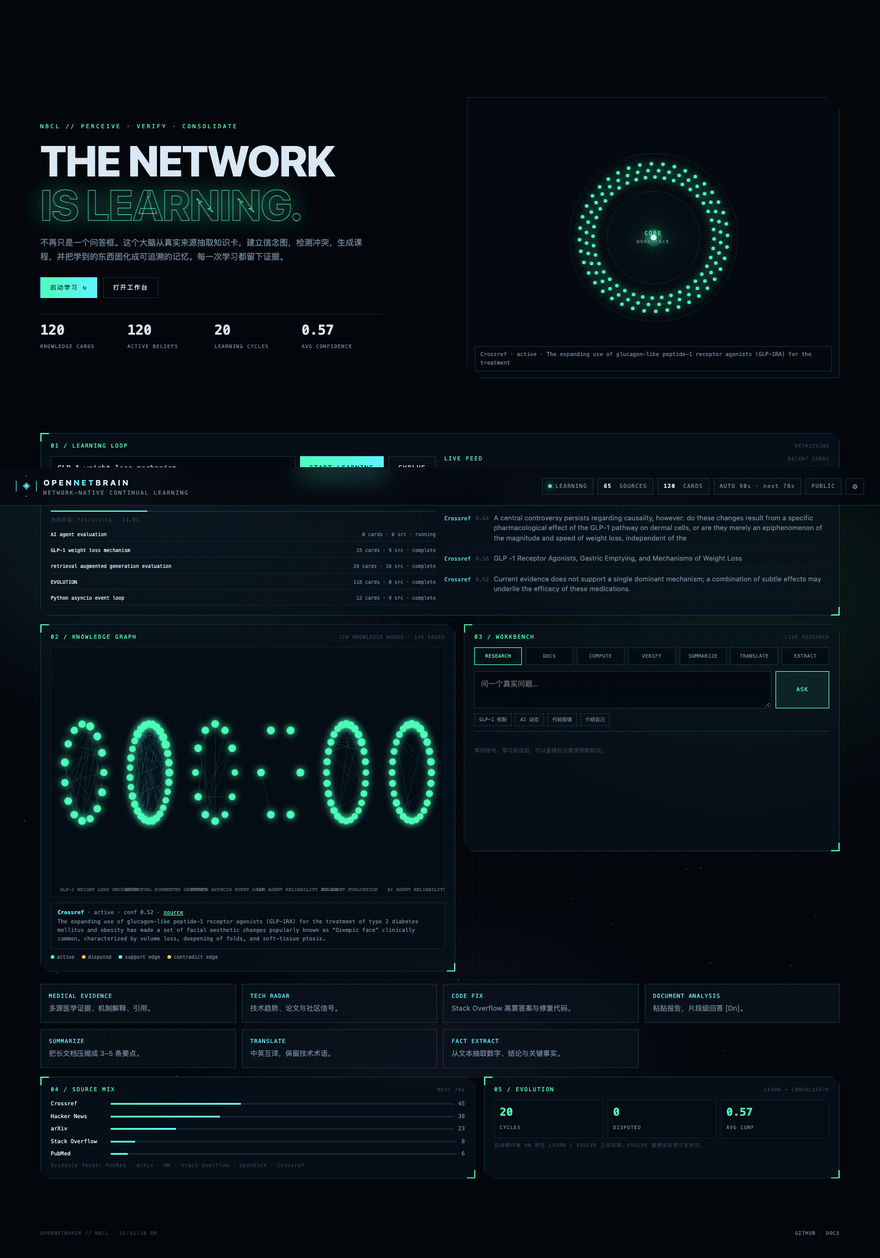
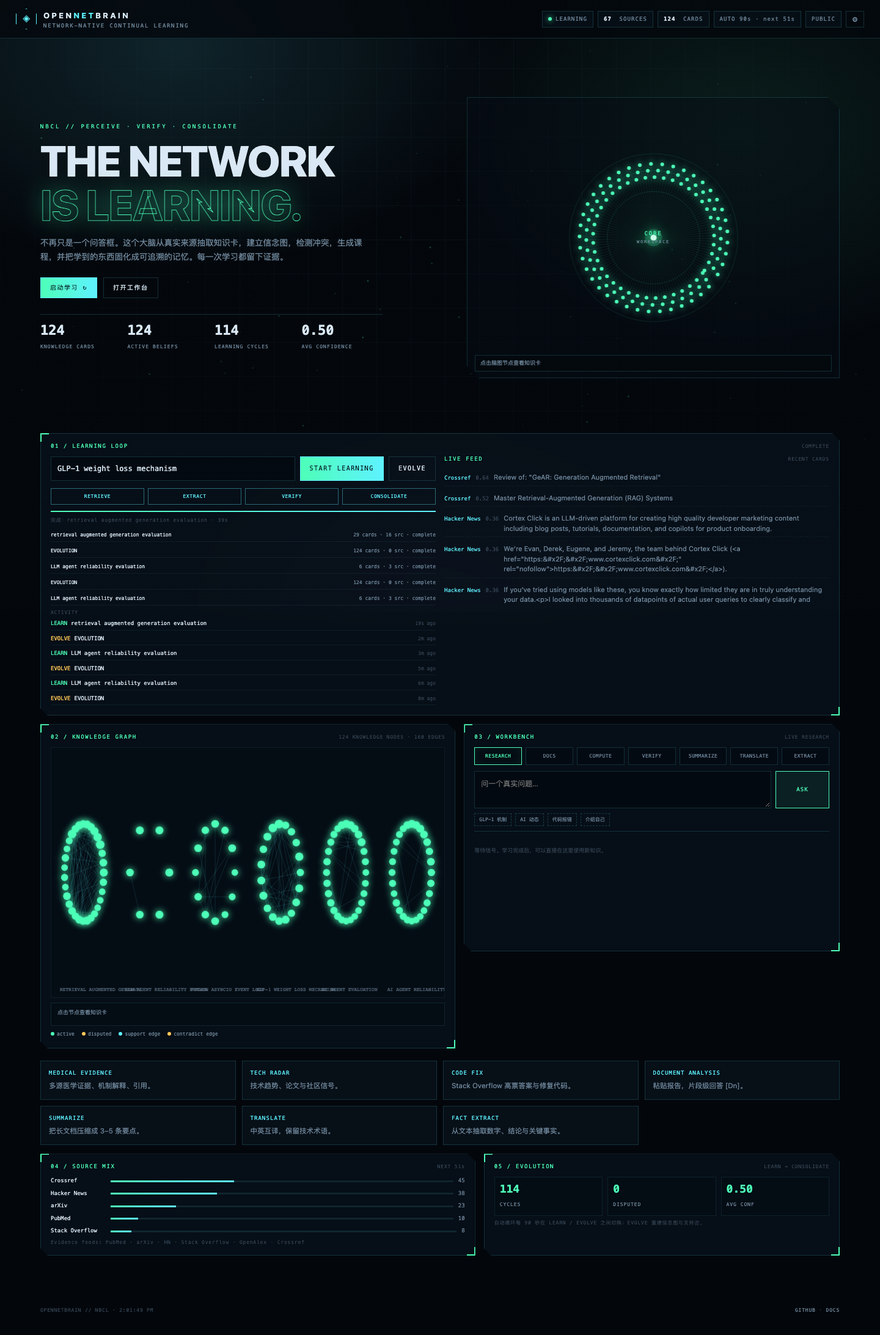
feat: clickable hero/graph card modal, auto activity log, v10

diff --git a/brain.html b/brain.html
@@ -58,6 +58,11 @@ textarea,input{background:rgba(3,9,15,.85);border:1px solid var(--line);color:va
 .bottom{display:grid;grid-template-columns:1.1fr .9fr;gap:14px;margin-top:14px}.node{display:flex;justify-content:space-between;gap:8px;font:8px/1.5 var(--mono);border-bottom:1px solid rgba(94,242,255,.08);padding:4px 0;color:var(--muted)}.node b{color:var(--text);font-weight:500}
 pre{background:rgba(3,9,15,.9);border:1px solid var(--line);padding:9px;color:var(--cyan);font:8.5px/1.7 var(--mono);white-space:pre-wrap;word-break:normal;overflow-wrap:break-word;margin:0 0 7px}.copy{width:100%;border:1px solid var(--green);background:rgba(77,255,184,.08);color:var(--green);font:8px/1 var(--mono);letter-spacing:.12em;padding:7px;cursor:pointer}
 .modal{position:fixed;inset:0;z-index:300;display:none;place-items:center;background:rgba(2,5,9,.85);backdrop-filter:blur(10px)}.modal.open{display:grid}.modal-card{width:min(420px,92vw);background:#08111b;border:1px solid var(--green);padding:20px}.modal-card h3{font:10px/1 var(--mono);letter-spacing:.2em;color:var(--green);margin:0 0 8px}.modal-card p{color:var(--muted);font-size:11px;margin:0 0 12px}.modal-actions{display:flex;gap:7px;margin-top:10px}.modal-actions button{flex:1;padding:8px;font:8px/1 var(--mono);letter-spacing:.12em;cursor:pointer;border:1px solid var(--green);background:var(--green);color:#021016}.modal-actions .ghost{background:transparent;color:var(--text);border-color:var(--line)}
+.activity{display:flex;flex-direction:column;gap:4px;max-height:150px;overflow:auto;margin-top:4px}
+.act{display:flex;gap:6px;align-items:baseline;border-bottom:1px solid rgba(94,242,255,.07);padding:3px 0;font:9px/1.5 var(--mono);color:var(--muted)}
+.act b{font-weight:500;color:var(--green)}.act b.evo{color:var(--amber)}.act span{flex:1;color:var(--text);overflow:hidden;text-overflow:ellipsis;white-space:nowrap}.act em{font-style:normal;color:var(--dim);font-size:8px}
+.card-modal{position:fixed;inset:0;z-index:320;display:none;place-items:center;background:rgba(2,5,9,.82);backdrop-filter:blur(8px);padding:20px}.card-modal.open{display:grid}
+.card-box{position:relative;width:min(640px,94vw);max-height:80vh;overflow:auto;background:#08111b;border:1px solid var(--green);padding:20px;box-shadow:0 0 50px rgba(77,255,184,.12)}.card-box h3{font:600 17px/1.5 var(--sans);margin:8px 0 10px;color:var(--text)}.card-box p{color:var(--muted);font-size:12px;margin:0 0 10px}.card-box .meta{display:flex;gap:8px;flex-wrap:wrap;margin-bottom:10px}.card-box a{color:var(--cyan);text-decoration:none;font:9px/1.5 var(--mono)}.card-close{position:absolute;right:10px;top:8px;background:transparent;border:0;color:var(--muted);font-size:20px;cursor:pointer}.card-close:hover{color:var(--green)}
 .graph-detail{margin-top:8px;border:1px solid rgba(94,242,255,.12);padding:8px 10px;font:9px/1.6 var(--mono);color:var(--muted);min-height:38px;background:rgba(3,9,15,.35)}
 .graph-detail b{color:var(--cyan)}.graph-detail a{color:var(--green)}
 .mix{display:flex;flex-direction:column;gap:7px}
@@ -127,6 +132,8 @@ footer{max-width:1360px;margin:0 auto;padding:0 26px 34px;display:flex;justify-c
         <div class="progress"><i id="progress"></i></div>
         <div class="hint" id="learnMsg">输入主题，或直接启动默认主题。学习在真实网络来源上进行。</div>
         <div class="cycles" id="cycles"></div>
+        <div class="hint" style="margin-top:8px">ACTIVITY</div>
+        <div class="activity" id="activity"></div>
       </div>
       <div>
         <div class="head"><span class="tag">LIVE FEED</span><span class="hint">RECENT CARDS</span></div>
@@ -196,6 +203,7 @@ footer{max-width:1360px;margin:0 auto;padding:0 26px 34px;display:flex;justify-c
 
 <footer><div>OPENNETBRAIN // NBCL · <span id="clock">--:--:--</span></div><div><a href="https://github.com/zacrisy/open-net-agent">GITHUB</a> · <a href="https://zacrisy.github.io/open-net-agent/">DOCS</a></div></footer>
 
+<div class="card-modal" id="cardModal"><div class="card-box"><button class="card-close" id="closeCard">×</button><div id="cardBody"></div></div></div>
 <div class="modal" id="settings"><div class="modal-card"><h3>ADMIN LINK</h3><p>可选：管理员 token 用于审计/NLI。公共学习与工作台无需 token。</p><input id="token" placeholder="admin token"><div class="modal-actions"><button id="saveToken">SAVE</button><button id="closeSettings" class="ghost">CANCEL</button></div></div></div>
 
 <script>
@@ -259,6 +267,7 @@ async function refreshBrain() {
     $('learnMsg').textContent = s.learning?.stage === 'complete' ? `完成：${s.learning.topic} · ${s.learning.elapsed}s` : (s.learning?.stage ? `当前阶段：${s.learning.stage} · ${s.learning.elapsed}s` : '等待开始学习。');
     $('feed').innerHTML = (s.feed || []).length ? s.feed.map(c => `<div class="feed-item"><b>${esc(c.source_type)}</b><span>${(c.confidence||0).toFixed(2)}</span><p>${esc(c.claim)}</p></div>`).join('') : '<div class="feed-item"><p>等待学习周期…</p></div>';
     $('cycles').innerHTML = (s.cycles || []).slice(0,5).map(c => `<div class="cycle"><b>${esc(c.topic)}</b><span>${c.cards||0} cards · ${c.sources||0} src · ${c.status}</span></div>`).join('');
+    $('activity').innerHTML = (s.cycles || []).slice(0,8).map(c => { const evo=c.topic==='EVOLUTION'; return `<div class="act"><b class="${evo?'evo':'learn'}">${evo?'EVOLVE':'LEARN'}</b><span>${esc(c.topic)}</span><em>${timeAgo(c.finished||c.started)}</em></div>`; }).join('');
     await loadGraph();
   } catch (e) { $('linkState').textContent = 'OFFLINE'; $('dot').classList.add('off'); }
 }
@@ -283,6 +292,15 @@ async function evolve() {
   setTimeout(() => $('evolve').disabled = false, 2500);
 }
 
+function timeAgo(ts){ if(!ts) return '--'; const s=Math.max(0,Math.round(Date.now()/1000-ts)); if(s<60) return s+'s ago'; if(s<3600) return Math.round(s/60)+'m ago'; return Math.round(s/3600)+'h ago'; }
+function openCard(n){
+  if(!n) return;
+  const link = n.source_url ? `<a href="${esc(n.source_url)}" target="_blank" rel="noopener">OPEN SOURCE ↗</a>` : '';
+  $('cardBody').innerHTML = `<div class="tag">${esc(n.source_type||'KNOWLEDGE CARD')} · ${esc(n.status||'active')} · CONF ${Number(n.confidence||0).toFixed(2)}</div><h3>${esc(n.claim||n.label||'')}</h3><p>TOPIC · ${esc(n.topic||'')}</p><div class="meta">${link}</div><div class="hint">This card is part of the network brain's belief graph.</div>`;
+  $('cardModal').classList.add('open');
+}
+function closeCard(){ $('cardModal').classList.remove('open'); }
+
 function drawGraph() {
   const c = $('graphCanvas'); if (!c) return; const r = c.getBoundingClientRect(); const dpr = devicePixelRatio || 1;
   c.width = r.width * dpr; c.height = r.height * dpr; const x = c.getContext('2d'); x.scale(dpr,dpr);
@@ -303,6 +321,7 @@ function drawGraph() {
       const link = best.source_url ? ` · <a href="${esc(best.source_url)}" target="_blank" rel="noopener">source</a>` : '';
       $('graphDetail').innerHTML = `<b>${esc(best.source_type||'')}</b> · ${esc(best.status)} · conf ${Number(best.confidence||0).toFixed(2)}${link} <br>${esc(best.claim||best.label)}`;
       $('nodeDetail').textContent = `${best.source_type} · ${best.status} · ${best.label}`;
+      openCard(best);
     } else {
       $('graphDetail').textContent = '点击节点查看知识卡';
       $('nodeDetail').textContent = '点击脑图节点查看知识卡';
@@ -315,8 +334,8 @@ function drawBrain() {
   const W=r.width,H=r.height; let t=performance.now()/1000; x.clearRect(0,0,W,H);
   const cx=W*.5, cy=H*.5, R=Math.min(W,H)*.3;
   x.strokeStyle='rgba(77,255,184,.12)'; [0.55,.8,1].forEach(k=>{x.beginPath();x.arc(cx,cy,R*k,0,7);x.stroke();});
-  const nodes=state.graph.nodes||[]; const n=Math.max(nodes.length,3);
-  for(let i=0;i<n;i++){const a=t*.15+i*Math.PI*2/n, rr=R*(.72+(i%3)*.08); const px=cx+Math.cos(a)*rr, py=cy+Math.sin(a)*rr; x.beginPath();x.moveTo(cx,cy);x.lineTo(px,py);x.strokeStyle='rgba(77,255,184,.08)';x.stroke(); x.beginPath();x.arc(px,py,3,0,7);x.fillStyle=nodes[i]?.status==='disputed'?'#ffc857':'#4dffb8';x.shadowColor=x.fillStyle;x.shadowBlur=12;x.fill();x.shadowBlur=0;}
+  const nodes=state.graph.nodes||[]; const n=Math.max(nodes.length,3); window.__brainPos={}; window.__brainNodes=nodes;
+  for(let i=0;i<n;i++){const a=t*.15+i*Math.PI*2/n, rr=R*(.72+(i%3)*.08); const px=cx+Math.cos(a)*rr, py=cy+Math.sin(a)*rr; if(nodes[i]) window.__brainPos[nodes[i].id]={x:px,y:py}; x.beginPath();x.moveTo(cx,cy);x.lineTo(px,py);x.strokeStyle='rgba(77,255,184,.08)';x.stroke(); x.beginPath();x.arc(px,py,3,0,7);x.fillStyle=nodes[i]?.status==='disputed'?'#ffc857':'#4dffb8';x.shadowColor=x.fillStyle;x.shadowBlur=12;x.fill();x.shadowBlur=0;}
   x.beginPath();x.arc(cx,cy,14,0,7);x.fillStyle='rgba(77,255,184,.2)';x.fill();x.beginPath();x.arc(cx,cy,5,0,7);x.fillStyle='#d9fff4';x.shadowColor='#4dffb8';x.shadowBlur=22;x.fill();x.shadowBlur=0;
   requestAnimationFrame(drawBrain);
 }
@@ -362,7 +381,9 @@ async function ask(){
 }
 async function vote(id,v){ if(!id)return; const r=await api('/feedback',{method:'POST',body:JSON.stringify({id,vote:v})}); if(r.ok){$('fbMsg').textContent='SAVED ✓';} }
 
-$('train').onclick=startLearn; $('evolve').onclick=evolve; $('heroTrain').onclick=()=>{document.querySelector('.panel').scrollIntoView({behavior:'smooth'});startLearn();};
+$('train').onclick=startLearn; $('evolve').onclick=evolve;
+$('closeCard').onclick=closeCard; $('cardModal').onclick=e=>{if(e.target.id==='cardModal')closeCard();}; document.addEventListener('keydown',e=>{if(e.key==='Escape')closeCard();});
+$('brainCanvas').onclick=ev=>{const c=$('brainCanvas'),r=c.getBoundingClientRect(),mx=ev.clientX-r.left,my=ev.clientY-r.top;let best=null,bd=1e9;(window.__brainNodes||[]).forEach(n=>{const p=(window.__brainPos||{})[n.id];if(!p)return;const d=Math.hypot(p.x-mx,p.y-my);if(d<bd){bd=d;best=n;}});if(best&&bd<18){$('nodeDetail').textContent=`${best.source_type} · ${best.status} · ${best.label}`;openCard(best);}}; $('heroTrain').onclick=()=>{document.querySelector('.panel').scrollIntoView({behavior:'smooth'});startLearn();};
 $('ask').onclick=ask;
 document.querySelectorAll('#modes button').forEach(b=>b.onclick=()=>setMode(b.dataset.mode));
 document.querySelectorAll('#samples button').forEach(b=>b.onclick=()=>{setMode('research');$('q').value=b.dataset.q;ask();});

diff --git a/docs/brain.html b/docs/brain.html
@@ -58,6 +58,11 @@ textarea,input{background:rgba(3,9,15,.85);border:1px solid var(--line);color:va
 .bottom{display:grid;grid-template-columns:1.1fr .9fr;gap:14px;margin-top:14px}.node{display:flex;justify-content:space-between;gap:8px;font:8px/1.5 var(--mono);border-bottom:1px solid rgba(94,242,255,.08);padding:4px 0;color:var(--muted)}.node b{color:var(--text);font-weight:500}
 pre{background:rgba(3,9,15,.9);border:1px solid var(--line);padding:9px;color:var(--cyan);font:8.5px/1.7 var(--mono);white-space:pre-wrap;word-break:normal;overflow-wrap:break-word;margin:0 0 7px}.copy{width:100%;border:1px solid var(--green);background:rgba(77,255,184,.08);color:var(--green);font:8px/1 var(--mono);letter-spacing:.12em;padding:7px;cursor:pointer}
 .modal{position:fixed;inset:0;z-index:300;display:none;place-items:center;background:rgba(2,5,9,.85);backdrop-filter:blur(10px)}.modal.open{display:grid}.modal-card{width:min(420px,92vw);background:#08111b;border:1px solid var(--green);padding:20px}.modal-card h3{font:10px/1 var(--mono);letter-spacing:.2em;color:var(--green);margin:0 0 8px}.modal-card p{color:var(--muted);font-size:11px;margin:0 0 12px}.modal-actions{display:flex;gap:7px;margin-top:10px}.modal-actions button{flex:1;padding:8px;font:8px/1 var(--mono);letter-spacing:.12em;cursor:pointer;border:1px solid var(--green);background:var(--green);color:#021016}.modal-actions .ghost{background:transparent;color:var(--text);border-color:var(--line)}
+.activity{display:flex;flex-direction:column;gap:4px;max-height:150px;overflow:auto;margin-top:4px}
+.act{display:flex;gap:6px;align-items:baseline;border-bottom:1px solid rgba(94,242,255,.07);padding:3px 0;font:9px/1.5 var(--mono);color:var(--muted)}
+.act b{font-weight:500;color:var(--green)}.act b.evo{color:var(--amber)}.act span{flex:1;color:var(--text);overflow:hidden;text-overflow:ellipsis;white-space:nowrap}.act em{font-style:normal;color:var(--dim);font-size:8px}
+.card-modal{position:fixed;inset:0;z-index:320;display:none;place-items:center;background:rgba(2,5,9,.82);backdrop-filter:blur(8px);padding:20px}.card-modal.open{display:grid}
+.card-box{position:relative;width:min(640px,94vw);max-height:80vh;overflow:auto;background:#08111b;border:1px solid var(--green);padding:20px;box-shadow:0 0 50px rgba(77,255,184,.12)}.card-box h3{font:600 17px/1.5 var(--sans);margin:8px 0 10px;color:var(--text)}.card-box p{color:var(--muted);font-size:12px;margin:0 0 10px}.card-box .meta{display:flex;gap:8px;flex-wrap:wrap;margin-bottom:10px}.card-box a{color:var(--cyan);text-decoration:none;font:9px/1.5 var(--mono)}.card-close{position:absolute;right:10px;top:8px;background:transparent;border:0;color:var(--muted);font-size:20px;cursor:pointer}.card-close:hover{color:var(--green)}
 .graph-detail{margin-top:8px;border:1px solid rgba(94,242,255,.12);padding:8px 10px;font:9px/1.6 var(--mono);color:var(--muted);min-height:38px;background:rgba(3,9,15,.35)}
 .graph-detail b{color:var(--cyan)}.graph-detail a{color:var(--green)}
 .mix{display:flex;flex-direction:column;gap:7px}
@@ -127,6 +132,8 @@ footer{max-width:1360px;margin:0 auto;padding:0 26px 34px;display:flex;justify-c
         <div class="progress"><i id="progress"></i></div>
         <div class="hint" id="learnMsg">输入主题，或直接启动默认主题。学习在真实网络来源上进行。</div>
         <div class="cycles" id="cycles"></div>
+        <div class="hint" style="margin-top:8px">ACTIVITY</div>
+        <div class="activity" id="activity"></div>
       </div>
       <div>
         <div class="head"><span class="tag">LIVE FEED</span><span class="hint">RECENT CARDS</span></div>
@@ -196,6 +203,7 @@ footer{max-width:1360px;margin:0 auto;padding:0 26px 34px;display:flex;justify-c
 
 <footer><div>OPENNETBRAIN // NBCL · <span id="clock">--:--:--</span></div><div><a href="https://github.com/zacrisy/open-net-agent">GITHUB</a> · <a href="https://zacrisy.github.io/open-net-agent/">DOCS</a></div></footer>
 
+<div class="card-modal" id="cardModal"><div class="card-box"><button class="card-close" id="closeCard">×</button><div id="cardBody"></div></div></div>
 <div class="modal" id="settings"><div class="modal-card"><h3>ADMIN LINK</h3><p>可选：管理员 token 用于审计/NLI。公共学习与工作台无需 token。</p><input id="token" placeholder="admin token"><div class="modal-actions"><button id="saveToken">SAVE</button><button id="closeSettings" class="ghost">CANCEL</button></div></div></div>
 
 <script>
@@ -259,6 +267,7 @@ async function refreshBrain() {
     $('learnMsg').textContent = s.learning?.stage === 'complete' ? `完成：${s.learning.topic} · ${s.learning.elapsed}s` : (s.learning?.stage ? `当前阶段：${s.learning.stage} · ${s.learning.elapsed}s` : '等待开始学习。');
     $('feed').innerHTML = (s.feed || []).length ? s.feed.map(c => `<div class="feed-item"><b>${esc(c.source_type)}</b><span>${(c.confidence||0).toFixed(2)}</span><p>${esc(c.claim)}</p></div>`).join('') : '<div class="feed-item"><p>等待学习周期…</p></div>';
     $('cycles').innerHTML = (s.cycles || []).slice(0,5).map(c => `<div class="cycle"><b>${esc(c.topic)}</b><span>${c.cards||0} cards · ${c.sources||0} src · ${c.status}</span></div>`).join('');
+    $('activity').innerHTML = (s.cycles || []).slice(0,8).map(c => { const evo=c.topic==='EVOLUTION'; return `<div class="act"><b class="${evo?'evo':'learn'}">${evo?'EVOLVE':'LEARN'}</b><span>${esc(c.topic)}</span><em>${timeAgo(c.finished||c.started)}</em></div>`; }).join('');
     await loadGraph();
   } catch (e) { $('linkState').textContent = 'OFFLINE'; $('dot').classList.add('off'); }
 }
@@ -283,6 +292,15 @@ async function evolve() {
   setTimeout(() => $('evolve').disabled = false, 2500);
 }
 
+function timeAgo(ts){ if(!ts) return '--'; const s=Math.max(0,Math.round(Date.now()/1000-ts)); if(s<60) return s+'s ago'; if(s<3600) return Math.round(s/60)+'m ago'; return Math.round(s/3600)+'h ago'; }
+function openCard(n){
+  if(!n) return;
+  const link = n.source_url ? `<a href="${esc(n.source_url)}" target="_blank" rel="noopener">OPEN SOURCE ↗</a>` : '';
+  $('cardBody').innerHTML = `<div class="tag">${esc(n.source_type||'KNOWLEDGE CARD')} · ${esc(n.status||'active')} · CONF ${Number(n.confidence||0).toFixed(2)}</div><h3>${esc(n.claim||n.label||'')}</h3><p>TOPIC · ${esc(n.topic||'')}</p><div class="meta">${link}</div><div class="hint">This card is part of the network brain's belief graph.</div>`;
+  $('cardModal').classList.add('open');
+}
+function closeCard(){ $('cardModal').classList.remove('open'); }
+
 function drawGraph() {
   const c = $('graphCanvas'); if (!c) return; const r = c.getBoundingClientRect(); const dpr = devicePixelRatio || 1;
   c.width = r.width * dpr; c.height = r.height * dpr; const x = c.getContext('2d'); x.scale(dpr,dpr);
@@ -303,6 +321,7 @@ function drawGraph() {
       const link = best.source_url ? ` · <a href="${esc(best.source_url)}" target="_blank" rel="noopener">source</a>` : '';
       $('graphDetail').innerHTML = `<b>${esc(best.source_type||'')}</b> · ${esc(best.status)} · conf ${Number(best.confidence||0).toFixed(2)}${link} <br>${esc(best.claim||best.label)}`;
       $('nodeDetail').textContent = `${best.source_type} · ${best.status} · ${best.label}`;
+      openCard(best);
     } else {
       $('graphDetail').textContent = '点击节点查看知识卡';
       $('nodeDetail').textContent = '点击脑图节点查看知识卡';
@@ -315,8 +334,8 @@ function drawBrain() {
   const W=r.width,H=r.height; let t=performance.now()/1000; x.clearRect(0,0,W,H);
   const cx=W*.5, cy=H*.5, R=Math.min(W,H)*.3;
   x.strokeStyle='rgba(77,255,184,.12)'; [0.55,.8,1].forEach(k=>{x.beginPath();x.arc(cx,cy,R*k,0,7);x.stroke();});
-  const nodes=state.graph.nodes||[]; const n=Math.max(nodes.length,3);
-  for(let i=0;i<n;i++){const a=t*.15+i*Math.PI*2/n, rr=R*(.72+(i%3)*.08); const px=cx+Math.cos(a)*rr, py=cy+Math.sin(a)*rr; x.beginPath();x.moveTo(cx,cy);x.lineTo(px,py);x.strokeStyle='rgba(77,255,184,.08)';x.stroke(); x.beginPath();x.arc(px,py,3,0,7);x.fillStyle=nodes[i]?.status==='disputed'?'#ffc857':'#4dffb8';x.shadowColor=x.fillStyle;x.shadowBlur=12;x.fill();x.shadowBlur=0;}
+  const nodes=state.graph.nodes||[]; const n=Math.max(nodes.length,3); window.__brainPos={}; window.__brainNodes=nodes;
+  for(let i=0;i<n;i++){const a=t*.15+i*Math.PI*2/n, rr=R*(.72+(i%3)*.08); const px=cx+Math.cos(a)*rr, py=cy+Math.sin(a)*rr; if(nodes[i]) window.__brainPos[nodes[i].id]={x:px,y:py}; x.beginPath();x.moveTo(cx,cy);x.lineTo(px,py);x.strokeStyle='rgba(77,255,184,.08)';x.stroke(); x.beginPath();x.arc(px,py,3,0,7);x.fillStyle=nodes[i]?.status==='disputed'?'#ffc857':'#4dffb8';x.shadowColor=x.fillStyle;x.shadowBlur=12;x.fill();x.shadowBlur=0;}
   x.beginPath();x.arc(cx,cy,14,0,7);x.fillStyle='rgba(77,255,184,.2)';x.fill();x.beginPath();x.arc(cx,cy,5,0,7);x.fillStyle='#d9fff4';x.shadowColor='#4dffb8';x.shadowBlur=22;x.fill();x.shadowBlur=0;
   requestAnimationFrame(drawBrain);
 }
@@ -362,7 +381,9 @@ async function ask(){
 }
 async function vote(id,v){ if(!id)return; const r=await api('/feedback',{method:'POST',body:JSON.stringify({id,vote:v})}); if(r.ok){$('fbMsg').textContent='SAVED ✓';} }
 
-$('train').onclick=startLearn; $('evolve').onclick=evolve; $('heroTrain').onclick=()=>{document.querySelector('.panel').scrollIntoView({behavior:'smooth'});startLearn();};
+$('train').onclick=startLearn; $('evolve').onclick=evolve;
+$('closeCard').onclick=closeCard; $('cardModal').onclick=e=>{if(e.target.id==='cardModal')closeCard();}; document.addEventListener('keydown',e=>{if(e.key==='Escape')closeCard();});
+$('brainCanvas').onclick=ev=>{const c=$('brainCanvas'),r=c.getBoundingClientRect(),mx=ev.clientX-r.left,my=ev.clientY-r.top;let best=null,bd=1e9;(window.__brainNodes||[]).forEach(n=>{const p=(window.__brainPos||{})[n.id];if(!p)return;const d=Math.hypot(p.x-mx,p.y-my);if(d<bd){bd=d;best=n;}});if(best&&bd<18){$('nodeDetail').textContent=`${best.source_type} · ${best.status} · ${best.label}`;openCard(best);}}; $('heroTrain').onclick=()=>{document.querySelector('.panel').scrollIntoView({behavior:'smooth'});startLearn();};
 $('ask').onclick=ask;
 document.querySelectorAll('#modes button').forEach(b=>b.onclick=()=>setMode(b.dataset.mode));
 document.querySelectorAll('#samples button').forEach(b=>b.onclick=()=>{setMode('research');$('q').value=b.dataset.q;ask();});

diff --git a/docs/index.html b/docs/index.html
@@ -40,7 +40,7 @@ footer{border-top:1px solid var(--line);margin-top:20px;padding-top:14px;display
   <h1>THE NETWORK<br><em>IS LEARNING.</em></h1>
   <p class="lead">OpenNetBrain 是一个持续学习的网络大脑：从真实来源抽取知识卡，建立信念图，检测冲突，生成课程，并把学到的东西固化成可追溯的记忆。它每 90 秒自动在“学习”和“进化”之间切换。</p>
   <div class="actions">
-    <a class="btn" href="./brain.html?v=9">进入网络大脑</a>
+    <a class="btn" href="./brain.html?v=10">进入网络大脑</a>
     <a class="btn ghost" href="https://github.com/zacrisy/open-net-agent">GitHub</a>
     <a class="btn ghost" href="https://github.com/zacrisy/open-net-agent/blob/main/nbpw/DESIGN.md">设计文档</a>
   </div>
@@ -60,7 +60,7 @@ footer{border-top:1px solid var(--line);margin-top:20px;padding-top:14px;display
 
   <footer>
     <div>OPENNETBRAIN // NBCL</div>
-    <div><a href="https://github.com/zacrisy/open-net-agent">GITHUB</a> · <a href="https://github.com/zacrisy/open-net-agent/blob/main/nbpw/REPORT_CONTINUAL.md">持续学习实验</a> · <a href="brain.html?v=9">控制台</a></div>
+    <div><a href="https://github.com/zacrisy/open-net-agent">GITHUB</a> · <a href="https://github.com/zacrisy/open-net-agent/blob/main/nbpw/REPORT_CONTINUAL.md">持续学习实验</a> · <a href="brain.html?v=10">控制台</a></div>
   </footer>
 </main>
 </body>

diff --git a/brain.py b/brain.py
@@ -11,6 +11,7 @@ DB = os.path.join(os.path.dirname(os.path.abspath(__file__)), "brain.db")
 LOCK = threading.Lock()
 CURRENT = {"cycle_id": None, "topic": None, "stage": "idle", "started": None, "elapsed": 0}
 AUTO = {"enabled": False, "interval": 600, "next": None, "last": None, "last_kind": None}
+AUTO_STARTED = False
 DEFAULT_TOPIC = "GLP-1 weight loss mechanism"
 
 
@@ -223,32 +224,29 @@ AUTO_TOPICS = ["GLP-1 weight loss mechanism", "AI agent evaluation", "Python asy
 
 
 def auto_start(interval=90):
+    global AUTO_STARTED
     with LOCK:
+        if AUTO_STARTED:
+            return
+        AUTO_STARTED = True
         AUTO.update({"enabled": True, "interval": interval, "next": time.time() + 4})
     def loop():
         time.sleep(4)
-        try:
-            with LOCK:
-                busy = CURRENT.get("stage") in ("retrieving", "extracting", "verifying", "consolidating")
-            if not busy:
-                start(random.choice(AUTO_TOPICS))
-            while True:
-                with LOCK:
-                    AUTO["next"] = time.time() + interval
-                time.sleep(interval)
+        while True:
+            try:
                 with LOCK:
                     busy = CURRENT.get("stage") in ("retrieving", "extracting", "verifying", "consolidating")
-                if busy:
-                    continue
-                if AUTO.get("last_kind") == "learn":
-                    consolidate()
-                else:
-                    start(random.choice(AUTO_TOPICS))
-        except Exception as e:
-            print("AUTO LOOP ERROR:", e, flush=True)
-            time.sleep(10)
+                if not busy:
+                    if AUTO.get("last_kind") == "learn":
+                        consolidate()
+                    else:
+                        start(random.choice(AUTO_TOPICS))
+            except Exception as e:
+                print("AUTO LOOP ERROR:", e, flush=True)
+            with LOCK:
+                AUTO["next"] = time.time() + interval
+            time.sleep(interval)
     threading.Thread(target=loop, daemon=True).start()
-
 
 def maybe_bootstrap():
     c = _conn(); n = c.execute("SELECT COUNT(*) FROM cards").fetchone()[0]; c.close()

diff --git a/promo/LAUNCH.md b/promo/LAUNCH.md
@@ -2,8 +2,8 @@
 
 ## 链接
 
-- **控制台（推荐）**：https://zacrisy.github.io/open-net-agent/brain.html?v=9
-- **短链**：https://tinyurl.com/2cafzvt8
+- **控制台（推荐）**：https://zacrisy.github.io/open-net-agent/brain.html?v=10
+- **短链**：https://tinyurl.com/2bfym3fo
 - **仓库**：https://github.com/zacrisy/open-net-agent
 - **Release**：https://github.com/zacrisy/open-net-agent/releases/tag/v0.7.0
 - **Discussion**：https://github.com/zacrisy/open-net-agent/discussions/6
@@ -22,7 +22,7 @@
 
 **Title:** Show HN: OpenNetAgent – a network agent that cites real sources
 
-**URL:** https://zacrisy.github.io/open-net-agent/brain.html?v=9
+**URL:** https://zacrisy.github.io/open-net-agent/brain.html?v=10
 
 **Body:**
 
@@ -69,7 +69,7 @@ increases orexin release”, which is not in any source. So I changed the design
 Feedback (upvote) becomes experience → knowledge pack → new nodes pull it → later
 answers cite `network memory`.
 
-Control deck: https://tinyurl.com/2cafzvt8
+Control deck: https://tinyurl.com/2bfym3fo
 Repo: https://github.com/zacrisy/open-net-agent
 
 Would love feedback on source ranking, translation quality, and how to distribute
@@ -97,7 +97,7 @@ curl -fsSL $COORD/install.sh | bash -s -- \
 - coordinator routes research / docs / compute / NLI tasks.
 
 I’m looking for 3–5 machine LAN tests and WAN latency reports. Control deck:
-https://tinyurl.com/2cafzvt8
+https://tinyurl.com/2bfym3fo
 
 ---
 
@@ -117,7 +117,7 @@ Evidence first, not vibes.
 5/ Upvote an answer → experience → knowledge pack → new nodes pull it → later
 answers cite `network memory`.
 
-6/ Try it: https://tinyurl.com/2cafzvt8
+6/ Try it: https://tinyurl.com/2bfym3fo
 Repo: https://github.com/zacrisy/open-net-agent
 Looking for node runners + contributors.
 
@@ -142,7 +142,7 @@ Looking for node runners + contributors.
 实测：GLP-1 机制返回 4 篇真实论文，约 11 秒；asyncio 报错返回 Stack Overflow
 高票答案。
 
-体验：https://tinyurl.com/2cafzvt8
+体验：https://tinyurl.com/2bfym3fo
 仓库：https://github.com/zacrisy/open-net-agent
 加入节点：https://github.com/zacrisy/open-net-agent/issues/4
 

diff --git a/README.md b/README.md
@@ -15,7 +15,7 @@
 - **项目主页**：<https://zacrisy.github.io/open-net-agent/>
 - **GitHub**：<https://github.com/zacrisy/open-net-agent>
 - **分享素材 / 发布文案**：<https://github.com/zacrisy/open-net-agent/blob/main/promo/LAUNCH.md>
-- **在线控制台（推荐）**：<https://zacrisy.github.io/open-net-agent/brain.html?v=9>（GitHub Pages，稳定、无隧道警告；后端走 serveo）
+- **在线控制台（推荐）**：<https://zacrisy.github.io/open-net-agent/brain.html?v=10>（GitHub Pages，稳定、无隧道警告；后端走 serveo）
 - **后端直连**：<https://opennetagent2.serveousercontent.com/>（serveo 固定域名；浏览器首次会看到 Serveo 警告页）
 - **一键加入**（把一台电脑变成节点）：
 
@@ -53,7 +53,7 @@ Code: [`nbpw/`](nbpw/) · Design: [`nbpw/DESIGN.md`](nbpw/DESIGN.md) · Report: 
 
 ## Public hosting（重要）
 
-- **UI**：GitHub Pages，公开可访问（`brain.html?v=9`）。
+- **UI**：GitHub Pages，公开可访问（`brain.html?v=10`）。
 - **API**：Cloudflare Quick Tunnel（当前）+ serveo fallback，运行在维护者本机。
 - **不是 24/7 云服务**：Mac 休眠、网络断开或隧道重启会导致 API 不可用；UI 仍能打开，但工作台会显示错误。
 - 生产部署见 `deploy/PUBLIC.md`（VPS + Docker/Caddy 或命名 Cloudflare Tunnel）。

diff --git a/ONLINE.md b/ONLINE.md
@@ -2,7 +2,7 @@
 
 ## 公网访问（已开通）
 
-- **控制台（推荐，无隧道警告）**：<https://zacrisy.github.io/open-net-agent/brain.html?v=9>
+- **控制台（推荐，无隧道警告）**：<https://zacrisy.github.io/open-net-agent/brain.html?v=10>
 - **后端 / 一键加入**：<https://opennetagent2.serveousercontent.com/>（serveo 固定域名；浏览器直连会看到 Serveo 警告页）
 
 - **公网 URL**：<https://opennetagent2.serveousercontent.com/>
@@ -26,7 +26,7 @@
 
 - Browser API（primary）：`https://meal-mature-blah-shepherd.trycloudflare.com`（Cloudflare Quick Tunnel，随机地址，重启会变）
 - CLI / fallback：`https://opennetagent2.serveousercontent.com`（serveo 固定子域名）
-- UI：<https://zacrisy.github.io/open-net-agent/brain.html?v=9>
+- UI：<https://zacrisy.github.io/open-net-agent/brain.html?v=10>
 
 ## 架构
 
